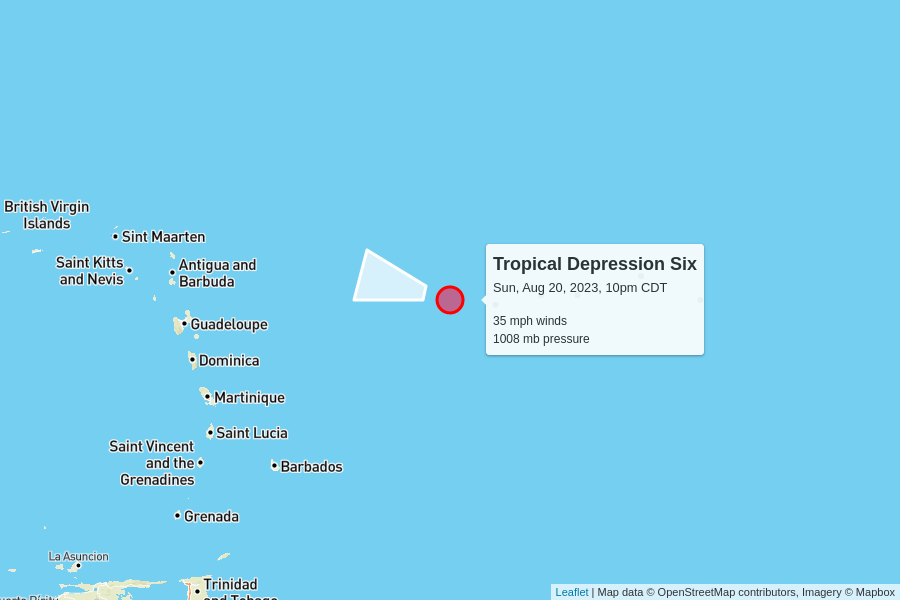
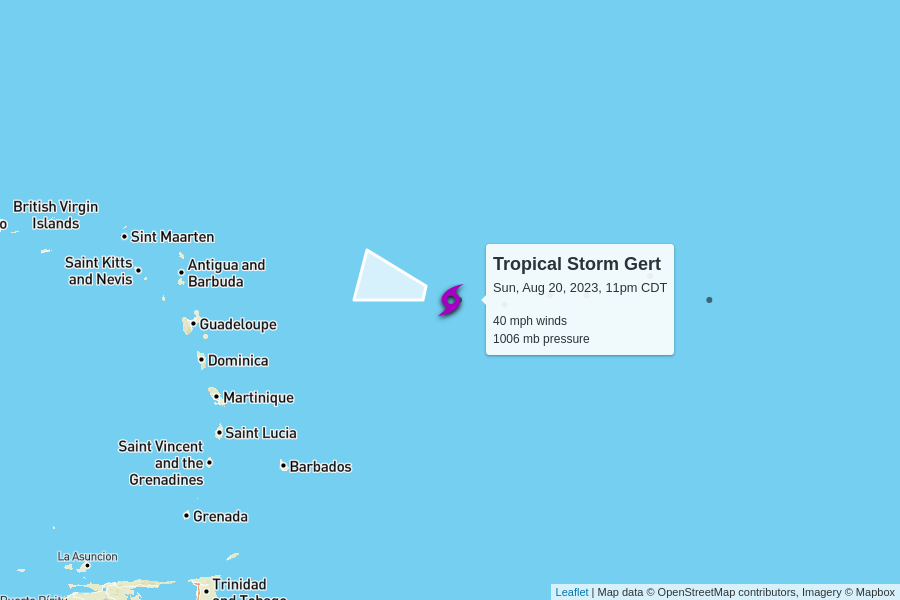
automatic update

diff --git a/docs/index.html b/docs/index.html
@@ -99,8 +99,8 @@
       <tr>
         <td colspan="6" class="storm category-0" >
           <h2>
-            Tropical Depression Six
-            <p class="updated">last updated <span data-time>2023-08-21T03:00:00.000Z</span></p>
+            Tropical Storm Gert
+            <p class="updated">last updated <span data-time>2023-08-21T04:00:00.000Z</span></p>
           </h2>
         </td>
       </tr>
@@ -115,15 +115,15 @@
       </tr>
       <tr>
         <td class="spacer"></td>
-        <td>35 mph</td>
-        <td>1008 mb</td>
+        <td>40 mph</td>
+        <td>1006 mb</td>
         <td>
           9 mph to the west-northwest
           <br/>
           <span style="display: inline-block; font-size: 1.5em; transform: rotate(285deg);">↑</span>
         </td>
         <td><a href="https://raw.githubusercontent.com/mgwalker/atlantic-hurricanes/main/data/csv/AL062023.csv">AL062023.csv</a></td>
-        <td><a href="https://www.nhc.noaa.gov/archive/2023/SIX.shtml?">NHC advisories</a></td>
+        <td><a href="https://www.nhc.noaa.gov/archive/2023/GERT.shtml?">NHC advisories</a></td>
       </tr>
       <tr id="storm_AL062023" >
         <td class="spacer">
